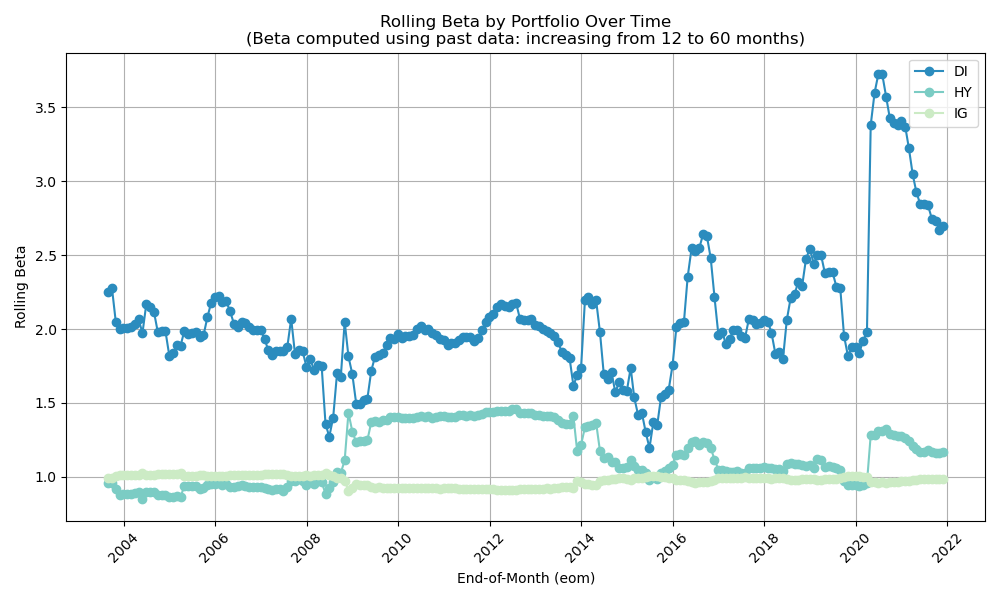
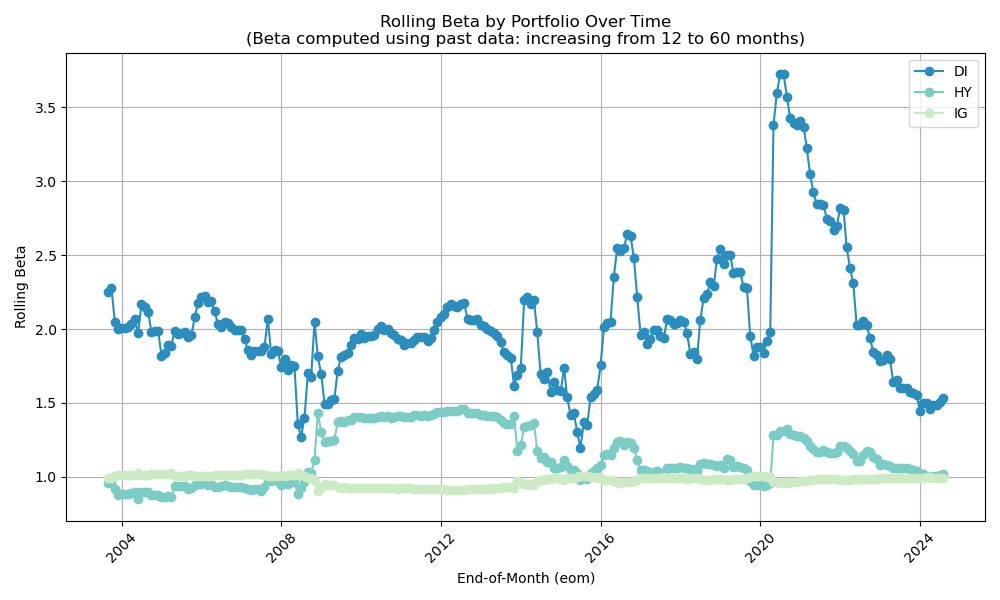
alphas

diff --git a/py_code/alpha_code.py b/py_code/alpha_code.py
@@ -1,0 +1,206 @@
+import os
+import statsmodels.formula.api as smf
+import pandas as pd
+import matplotlib.pyplot as plt
+import seaborn as sns
+import numpy as np
+from fredapi import Fred
+fred = Fred(api_key='01b2825140d39531d70a035eaf06853d')
+import statsmodels.api as sm
+
+#Set the working directory
+project_dir = os.getcwd()   # Change to your project directory
+data_folder = project_dir + "/data"
+
+### Getting data
+bond_data = pd.read_csv(data_folder + "/preprocessed/bond_data.csv")
+model_data = pd.read_csv(data_folder + "/preprocessed/model_data.csv")
+stock_returns = pd.read_csv(data_folder + "/raw/stock_market_returns.csv")
+long_term_gvt_bond_data = pd.read_csv(data_folder + "/raw/long_term_gvt_bond_data.csv")
+t1m_daily = fred.get_series('DGS1MO') / 100  # Convert from % to decimal
+
+### Creating portfolios
+model_data['eom'] = pd.to_datetime(model_data['eom'])
+unique_months = model_data['eom'].unique()
+portfolio_by_month = {}
+
+for month in sorted(unique_months):
+    month_data = model_data[model_data['eom'] == month].copy()
+    # Assign portfolios for this month based on credit spread and rating class
+    month_data.loc[month_data['credit_spread_start'] > 0.1, 'portfolio'] = 'DI'
+    month_data.loc[(month_data['portfolio'].isnull()) & (month_data['rating_class_start'] == '0.IG'), 'portfolio'] = 'IG'
+    month_data.loc[(month_data['portfolio'].isnull()) & (month_data['rating_class_start'] == '1.HY'), 'portfolio'] = 'HY'
+    month_data.loc[month_data['portfolio'].isnull(), 'portfolio'] = 'Other'
+    portfolio_by_month[month] = month_data # Save the DataFrame for this month
+
+# Add portfolio to the model_data 
+model_data['portfolio'] = np.nan
+model_data.loc[model_data['credit_spread_start'] > 0.1, 'portfolio'] = 'DI'
+model_data.loc[model_data['portfolio'].isnull() & (model_data['rating_class_start'] == '0.IG'), 'portfolio'] = 'IG'
+model_data.loc[model_data['portfolio'].isnull() & (model_data['rating_class_start'] == '1.HY'), 'portfolio'] = 'HY'
+
+### Calculating returns for portfolios
+groups = ['DI', 'HY', 'IG']
+
+# Initialize storage for returns
+group_ret_texc = {grp: [] for grp in groups}
+group_ret_exc = {grp: [] for grp in groups}
+market_ret_texc = []
+date_series = []
+
+# Get list of unique month-end dates
+dates = sorted(model_data['eom'].dropna().unique())
+
+# Loop through each month
+for dt in dates:
+    current_period = model_data[model_data['eom'] == dt]
+
+    # Skip if no data
+    if current_period.empty:
+        continue
+
+    date_series.append(dt)
+
+    # Compute returns (texc) for each group
+    for grp in groups:
+        group_data = current_period[current_period['portfolio'] == grp]
+        total_mv = group_data['market_value_start'].sum()
+
+        if len(group_data) > 0 and total_mv > 0:
+            weights = group_data['market_value_start'] / total_mv
+            weighted_return = (weights * group_data['ret_texc']).sum()
+        else:
+            weighted_return = 0
+
+        group_ret_texc[grp].append(weighted_return)
+
+        # Compute returns (exc) for each group
+    for grp in groups:
+        group_data = current_period[current_period['portfolio'] == grp]
+        total_mv = group_data['market_value_start'].sum()
+
+        if len(group_data) > 0 and total_mv > 0:
+            weights = group_data['market_value_start'] / total_mv
+            weighted_return_exc = (weights * group_data['ret_exc']).sum()
+        else:
+            weighted_return_exc = 0
+
+        group_ret_exc[grp].append(weighted_return_exc)
+
+
+    # Total market return across all portfolios (optional, but common)
+    total_mv_all = current_period['market_value_start'].sum()
+    if total_mv_all > 0:
+        weights_all = current_period['market_value_start'] / total_mv_all
+        weighted_return_all = (weights_all * current_period['ret_texc']).sum()
+    else:
+        weighted_return_all = 0
+    market_ret_texc.append(weighted_return_all)
+
+### Creating term variable
+long_term_gvt_bond_data = long_term_gvt_bond_data[['QTDATE', 'TOTRET']]
+long_term_gvt_bond_data.columns = ['date', 'gvt_ret']
+long_term_gvt_bond_data['gvt_ret'] = long_term_gvt_bond_data['gvt_ret'] / 100
+
+# Convert 'date' to datetime and align to month-end
+long_term_gvt_bond_data['date'] = pd.to_datetime(long_term_gvt_bond_data['date'])
+long_term_gvt_bond_data['date'] = long_term_gvt_bond_data['date'].dt.to_period('M').dt.to_timestamp('M')
+
+# Filter date range
+long_term_gvt_bond_data = long_term_gvt_bond_data.loc[
+    (long_term_gvt_bond_data['date'] >= '2002-08-31') &
+    (long_term_gvt_bond_data['date'] <= '2024-07-31')
+]
+
+# Set 'date' as index for merging
+long_term_gvt_bond_data = long_term_gvt_bond_data.set_index('date')
+
+# Pull T-bill rate (1-month) from FRED and resample to monthly
+t1m_daily = fred.get_series('DGS1MO') / 100  # Convert from % to decimal
+t1m_daily = t1m_daily.ffill()  # Forward fill missing values
+
+# Resample to month-end
+t1m_monthly = t1m_daily.resample('M').last()
+
+# Convert to compounded monthly return and shift
+monthly_t1m_monthly = (1 + t1m_monthly) ** (1 / 12) - 1
+monthly_t1m_monthly_shift = monthly_t1m_monthly.shift()
+monthly_t1m_monthly_shift = monthly_t1m_monthly_shift.loc['2002-08-30':'2024-07-31']
+monthly_rf = monthly_t1m_monthly_shift.to_frame(name='1m_risk_free')
+monthly_rf.index = pd.to_datetime(monthly_rf.index)
+
+# Merge on the index (Date)
+term_returns = long_term_gvt_bond_data.join(monthly_rf, how='inner')
+
+# Reset index so date becomes a column again
+term_returns = term_returns.reset_index()
+term_returns.rename(columns={'index': 'date'}, inplace=True)
+
+# Calculate term variable
+term_returns['term'] = term_returns['gvt_ret'] - term_returns['1m_risk_free']
+
+# Prepare to merge
+term_returns['date'] = pd.to_datetime(term_returns['date']).dt.normalize()
+term_returns.set_index('date', inplace=True)
+
+### Creating stock market variable
+stock_returns = stock_returns.iloc[:, :2].rename(columns={
+    'caldt': 'date',
+    'vwretd': 'stock_return'
+})
+# Small adjustments
+stock_returns['date'] = pd.to_datetime(stock_returns['date'])
+stock_returns['date'] = pd.to_datetime(stock_returns['date']) + pd.offsets.MonthEnd(0)
+stock_returns.set_index('date', inplace=True)
+stock_returns = stock_returns.loc['2002-08-30':'2024-07-31'].reset_index()
+# Getting excess returns
+stock_returns = stock_returns.set_index('date').join(monthly_rf, how='left').reset_index()
+stock_returns['stock_ret_exc']  = stock_returns['stock_return'] - stock_returns['1m_risk_free']
+# Convert 'Date' to datetime and normalize it (removes time component)
+stock_returns['date'] = pd.to_datetime(stock_returns['date']).dt.normalize()
+stock_returns['date'] = pd.to_datetime(stock_returns['date']) + pd.offsets.MonthEnd(0)
+stock_returns.set_index('date', inplace=True)
+
+# Collecting into a single dataframe
+texc_returns_df = pd.DataFrame(group_ret_texc, index=pd.to_datetime(date_series))
+texc_returns_df['market_ret_texc'] = market_ret_texc
+texc_returns_df.index.name = 'date'
+texc_regression_df = texc_returns_df.iloc[24:]
+texc_regression_df = texc_regression_df * 12
+
+# Define the independent variable (market excess return) and add a constant
+X = sm.add_constant(texc_regression_df[['market_ret_texc']])
+
+# Store results in a dictionary
+texc_regression_results = {}
+
+# Loop through each portfolio and run the regression
+for portfolio in ['IG', 'HY', 'DI']:
+    y = texc_regression_df[portfolio]
+    model = sm.OLS(y, X).fit()
+    texc_regression_results[portfolio] = model
+    print(f"Regression results using ret_texc for {portfolio}:\n{model.summary()}\n")
+
+# Collecting into a single dataframe
+exc_returns_df = pd.DataFrame(group_ret_exc, index=pd.to_datetime(date_series))
+exc_returns_df['market_ret_texc'] = market_ret_texc
+exc_returns_df.index.name = 'date'
+exc_returns_df = exc_returns_df.join(term_returns[['term']], how='left')
+exc_returns_df = exc_returns_df.join(stock_returns[['stock_ret_exc']], how='left')
+exc_regression_df = exc_returns_df.iloc[24:]
+exc_regression_df = exc_regression_df * 12
+
+# Define the independent variable (market excess return) and add a constant
+X = sm.add_constant(exc_regression_df[['market_ret_texc', 'term', 'stock_ret_exc']])
+
+# Store results in a dictionary
+exc_regression_results = {}
+
+print(exc_regression_df.isnull().sum())
+
+# Loop through each portfolio and run the regression
+for portfolio in ['IG', 'HY', 'DI']:
+    y = exc_regression_df[portfolio]
+    model = sm.OLS(y, X).fit()
+    exc_regression_results[portfolio] = model
+    print(f"Regression results using ret_exc for {portfolio}:\n{model.summary()}\n")
